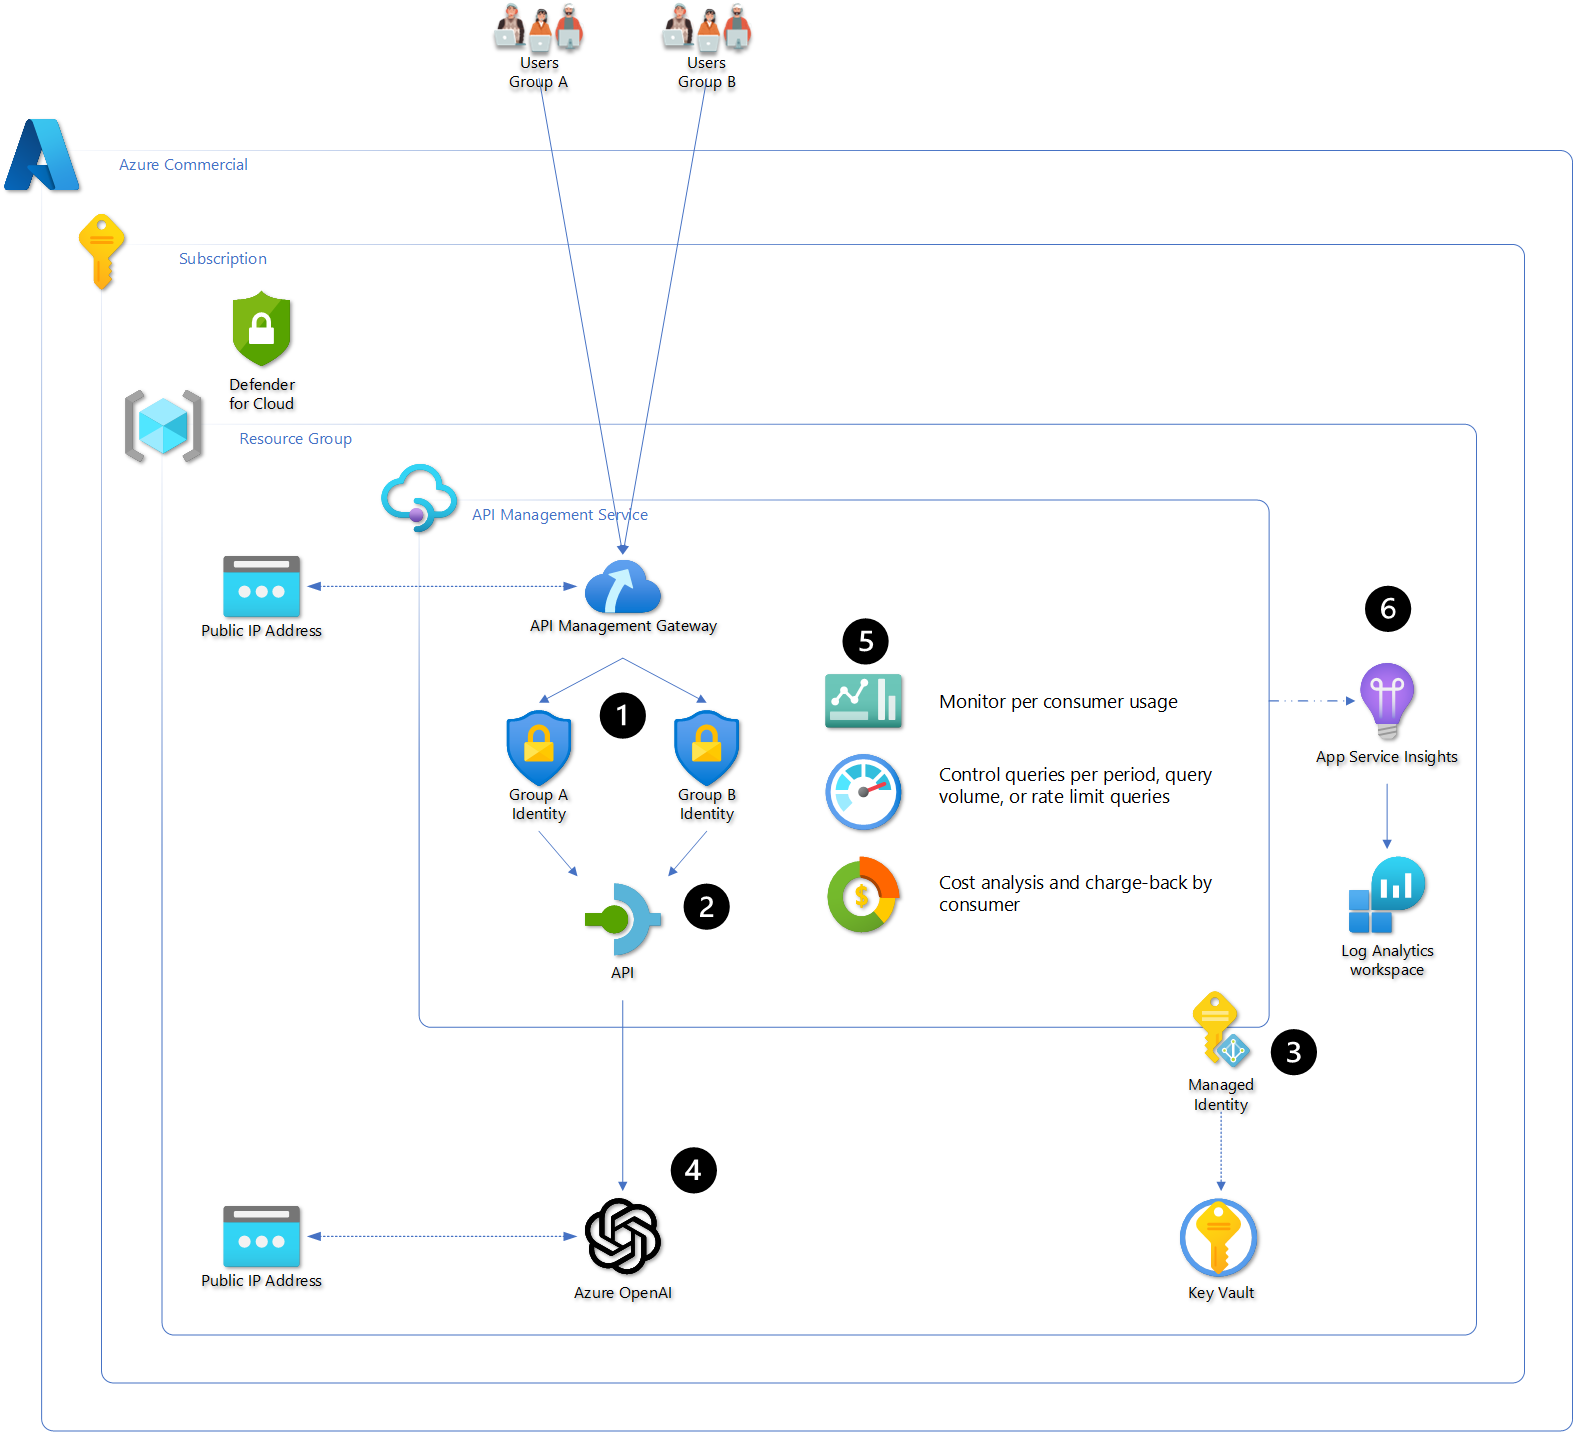
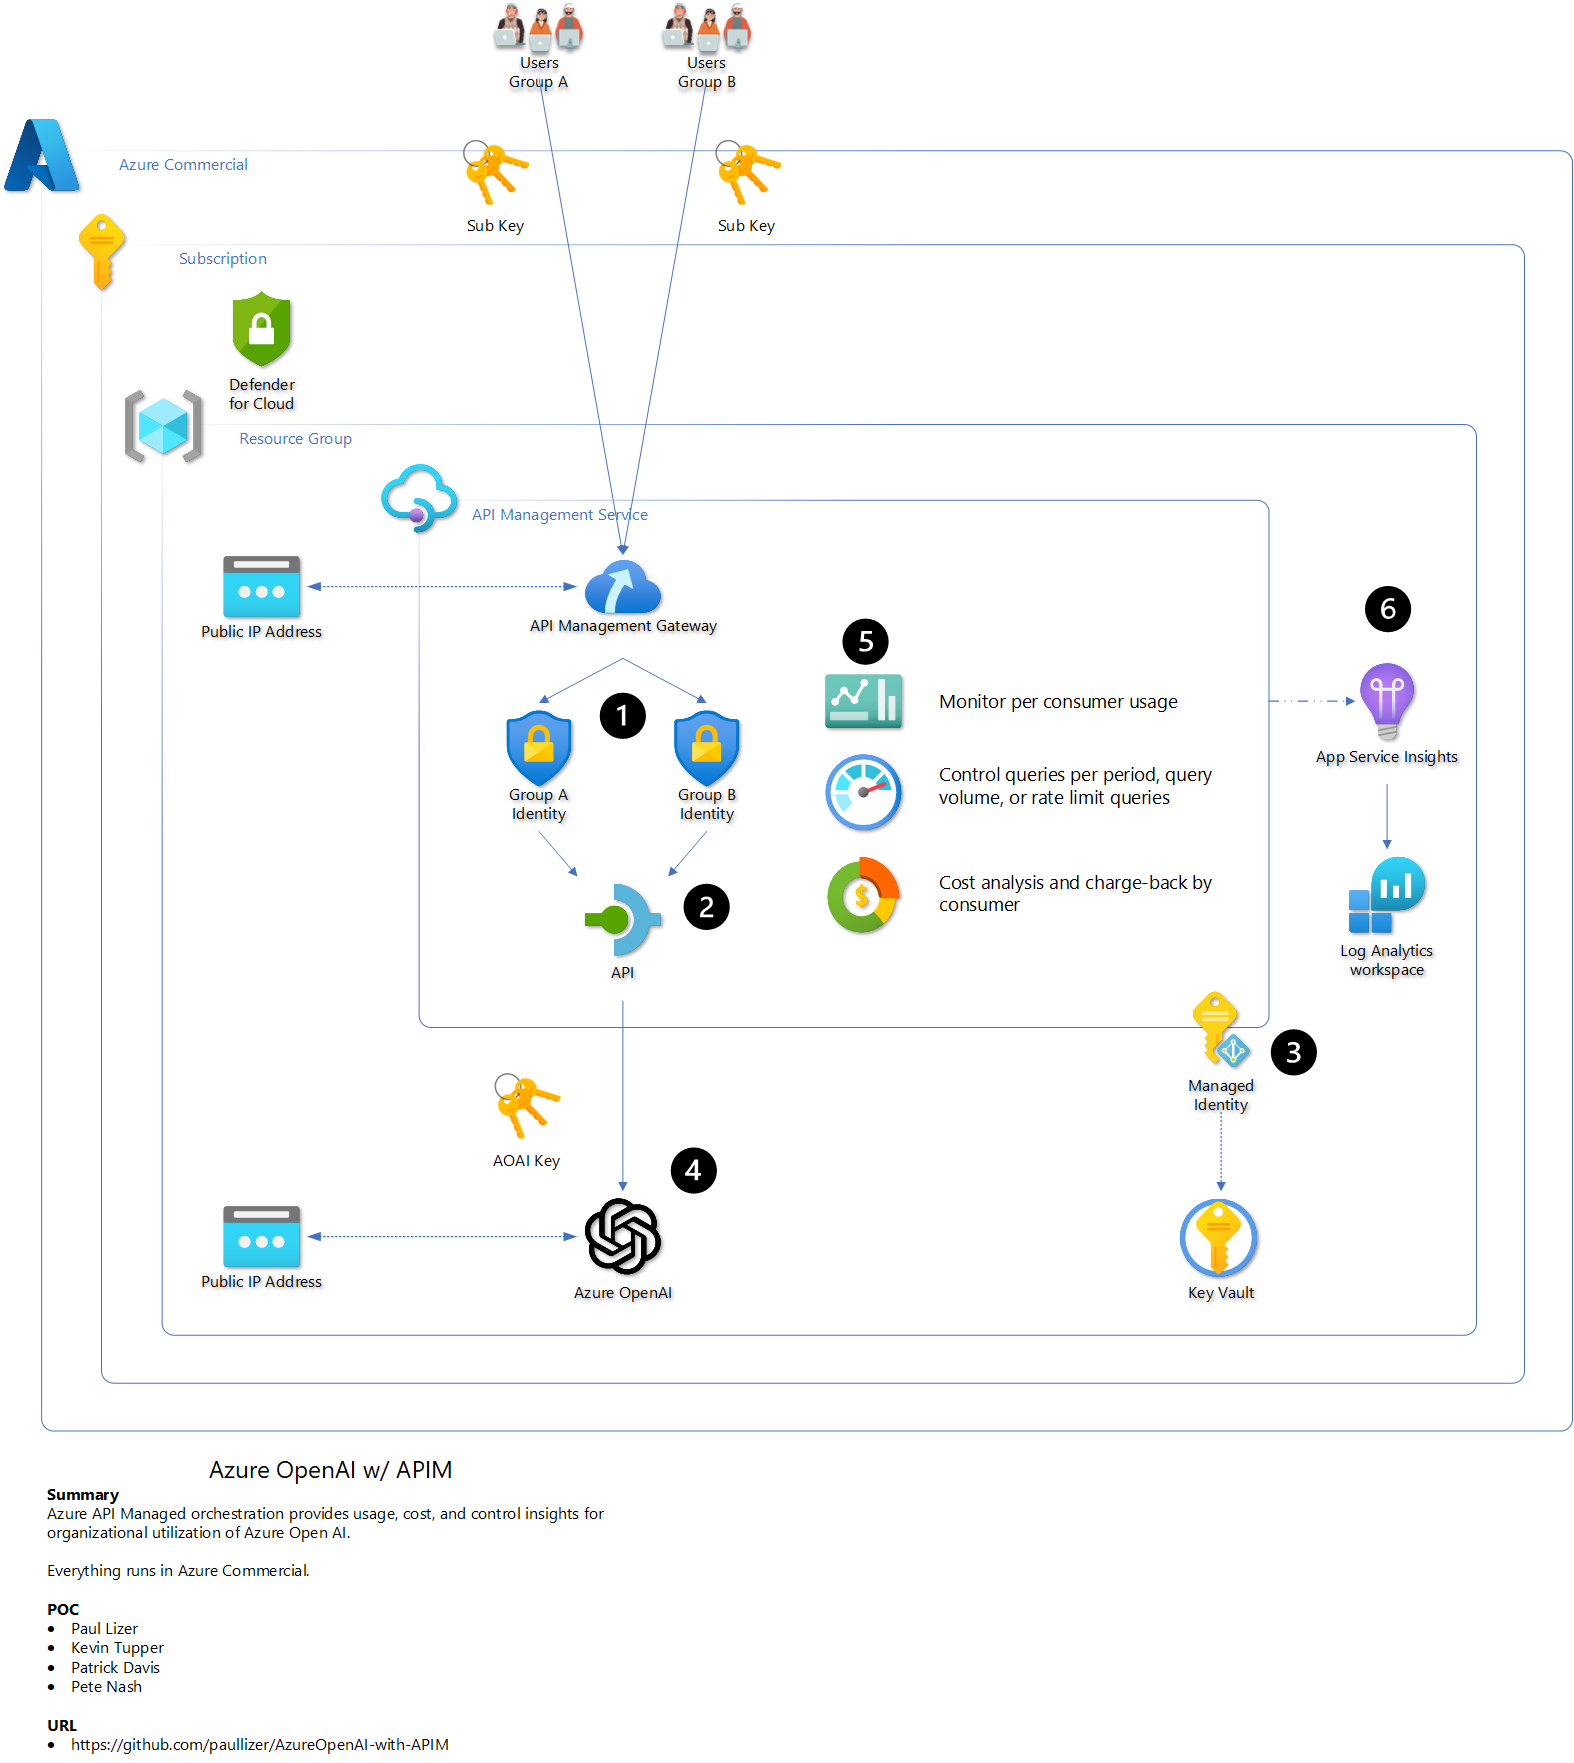
Updated architecture diagrams

diff --git a/README.md b/README.md
@@ -55,7 +55,7 @@ Summary
 
 Description
 
-![image-20230817113004268](C:\Users\paullizer\AppData\Roaming\Typora\typora-user-images\image-20230817113004268.png)
+![Azure Commercial API Management to Azure Open AI](./images/architecture-commercial_apim-to-aoai.png)
 
 #### Deploy
 
@@ -101,7 +101,7 @@ New-AzResourceGroupDeployment -ResourceGroupName $resourceGroupName -TemplateFil
 
 Description
 
-![image-20230817113022498](C:\Users\paullizer\AppData\Roaming\Typora\typora-user-images\image-20230817113022498.png)
+![Azure Commercial API Management to Azure Open AI with private endpoints](./images/architecture-private-commercial_apim-to-aoai.png)
 
 #### Deploy
 
@@ -147,7 +147,7 @@ New-AzResourceGroupDeployment -ResourceGroupName $resourceGroupName -TemplateFil
 
 Description
 
-![image-20230817113212792](C:\Users\paullizer\AppData\Roaming\Typora\typora-user-images\image-20230817113212792.png)
+![Azure Government API Management to Azure Open AI](./images/architecture-government_apim-to-aoai.png)
 
 #### Deploy
 
@@ -194,7 +194,7 @@ New-AzResourceGroupDeployment -ResourceGroupName $resourceGroupName -TemplateFil
 
 Description
 
-![image-20230817113246746](C:\Users\paullizer\AppData\Roaming\Typora\typora-user-images\image-20230817113246746.png)
+![Azure Government API Management to Azure Open AI with private endpoints](./images/architecture-private-government_apim-to-aoai.png)
 
 #### Deploy
 
